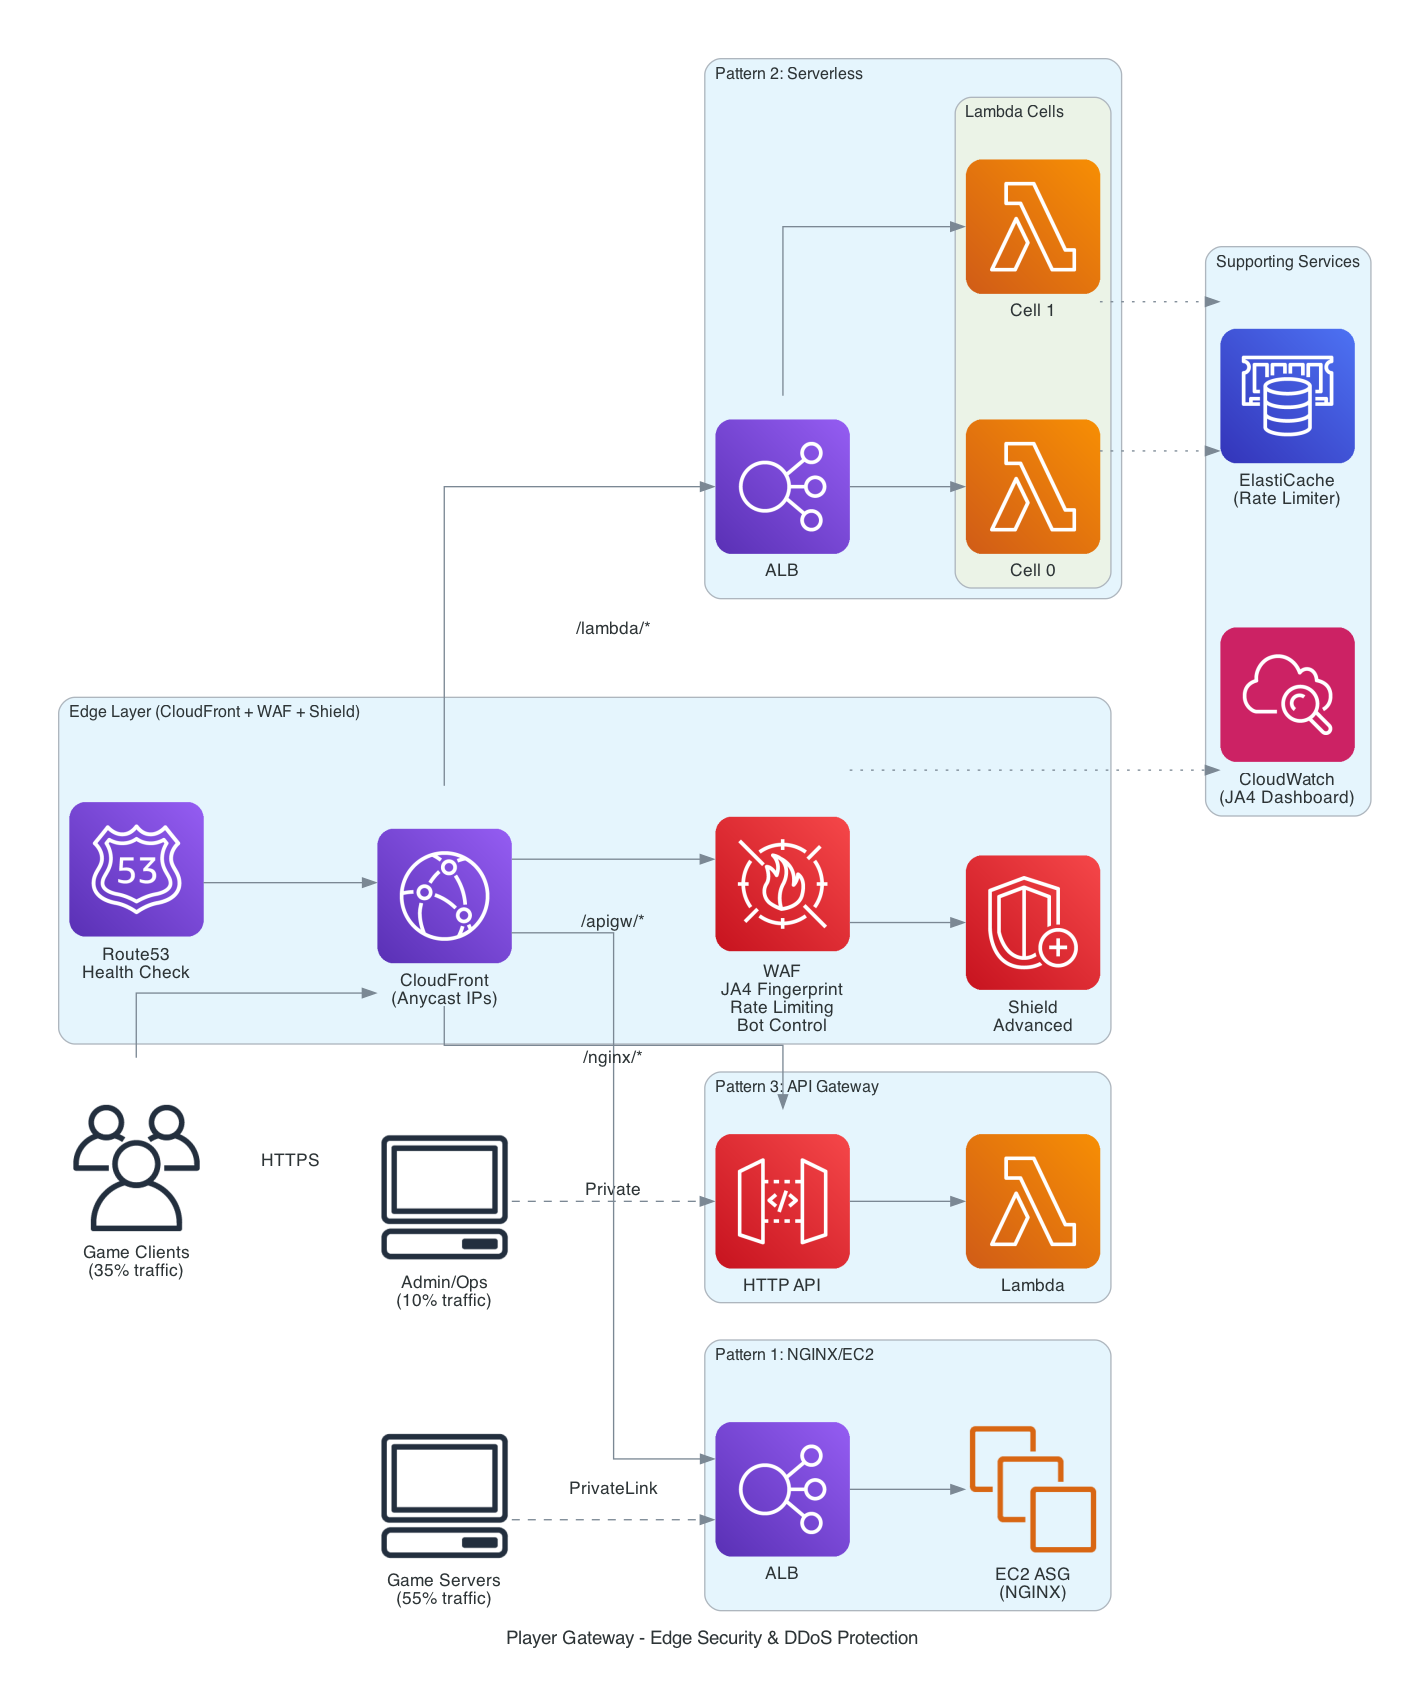
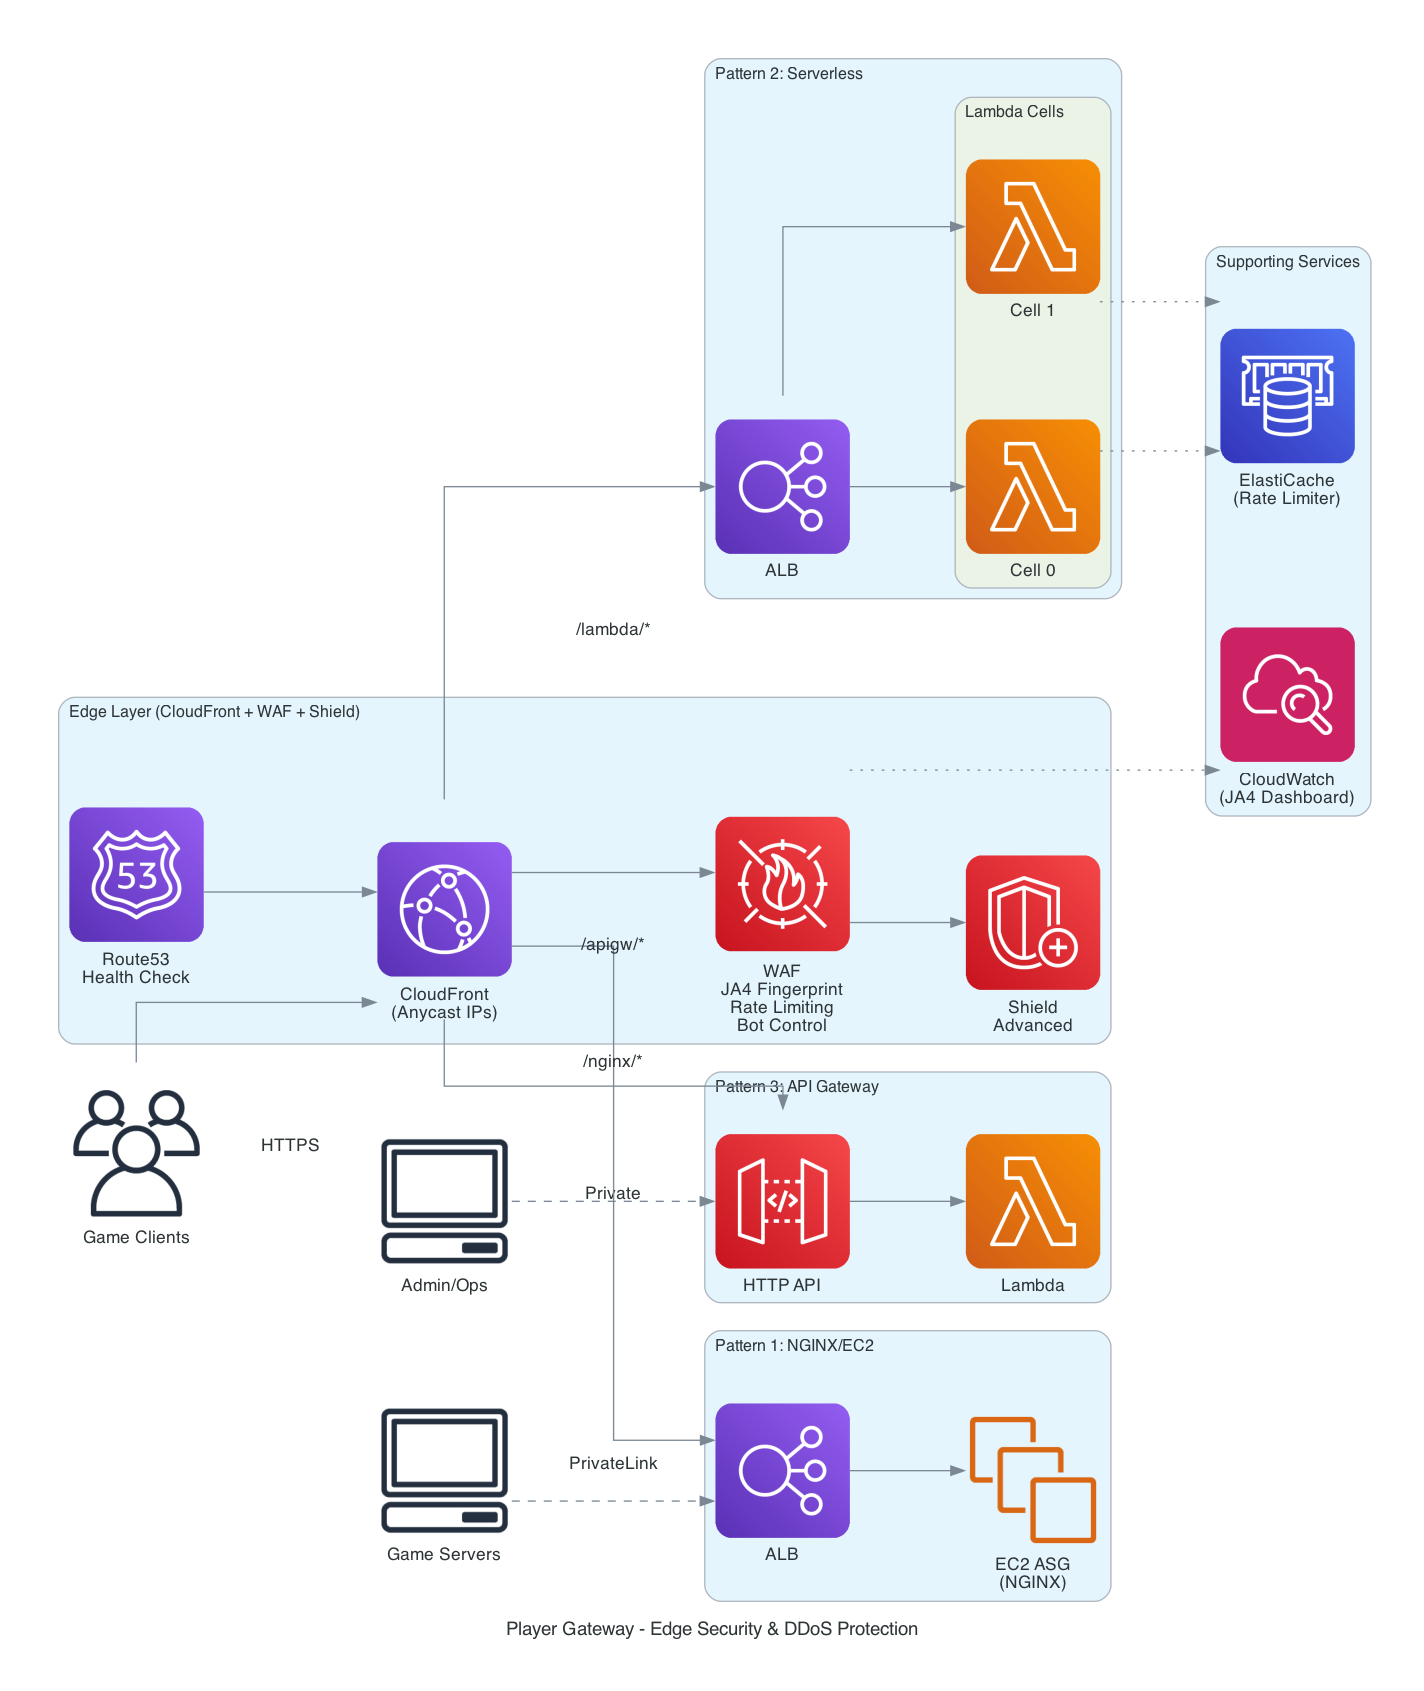
docs: Remove traffic ratios from diagram

diff --git a/docs/generate-diagram.py b/docs/generate-diagram.py
@@ -25,9 +25,9 @@ with Diagram(
     outformat="png",
 ):
     # Clients
-    players = Users("Game Clients\n(35% traffic)")
-    s2s = Client("Game Servers\n(55% traffic)")
-    admin = Client("Admin/Ops\n(10% traffic)")
+    players = Users("Game Clients")
+    s2s = Client("Game Servers")
+    admin = Client("Admin/Ops")
 
     with Cluster("Edge Layer (CloudFront + WAF + Shield)"):
         cf = CloudFront("CloudFront\n(Anycast IPs)")
